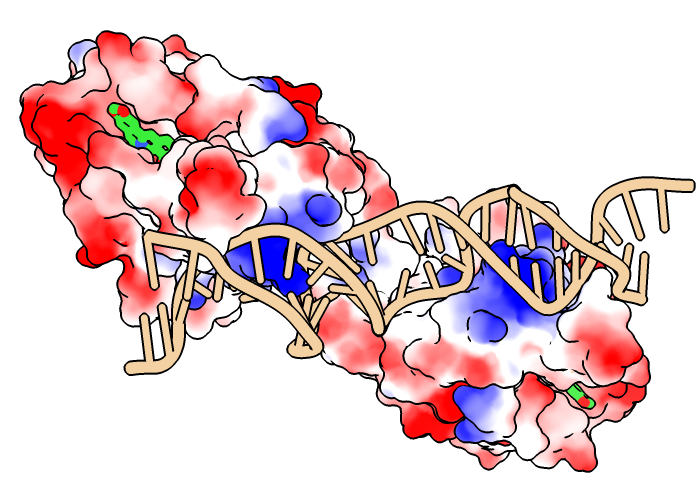
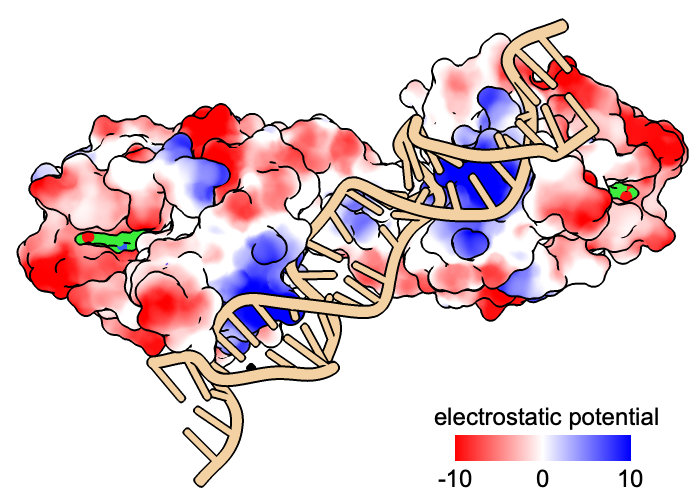
additional improvements/corrections to key and its documentation, updated example and figure in binding-sites tutorial; ~2dlabels alias for 2dlabels delete

diff --git a/docs/user/commands/key.html b/docs/user/commands/key.html
@@ -25,7 +25,7 @@ class="clRight" title="User Guide Index"/></a>
 
 <h3><a href="../index.html#commands">Command</a>: key</h3>
 <h3 class="usage"><a href="usageconventions.html">Usage</a>:
-<br><b>key</b> &nbsp;<i>colors-and-labels</i>
+<br><b>key</b> [&nbsp;<i>colors-and-labels</i>&nbsp;]
 [&nbsp;<b>pos</b>&nbsp;&nbsp;<i>xpos,ypos</i>&nbsp;]
 [&nbsp;<b>size</b>&nbsp;&nbsp;<i>width,height</i>&nbsp;]
 [&nbsp;<b>colorTreatment</b>&nbsp;&nbsp;<b>blended</b>&nbsp;|&nbsp;distinct&nbsp;]
@@ -39,6 +39,17 @@ class="clRight" title="User Guide Index"/></a>
 [&nbsp;<b>bold</b>&nbsp;&nbsp;true&nbsp;|&nbsp;<b>false</b>&nbsp;]
 [&nbsp;<b>italic</b>&nbsp;&nbsp;true&nbsp;|&nbsp;<b>false</b>&nbsp;]
 </h3>
+<table class="clRight">
+<tr><td>
+<img class="outline" src="../tutorials/bind6.png" 
+alt="Coulombic ESP flat lighting" width="280px">
+</td></tr>
+<tr><td align="center">
+<font size="-1">
+see <a href="../tutorials/binding-sites.html#esp">image how-to</a>
+</font>
+</td></tr>
+</table>
 <a name="listfonts"></a>
 <h3 class="usage"><a href="usageconventions.html">Usage</a>:
 <br><b>key listfonts</b>
@@ -65,26 +76,42 @@ See also:
 <a href="../tools/moldisplay.html" title="Molecule Display Toolbar...">
 <img class="icon" border=1 src="../tools/shortcut-icons/esp.png"></a>,
 <a href="mlp.html"><b>mlp</b></a>
-<a href="../tools/moldisplay.html" title="Molecule Display Toolbar...">
-<img class="icon" border=1 src="../tools/shortcut-icons/hydrophobicity.png"></a>,
+<a href="../tools/moldisplay.html" title="Molecule Display Toolbar..."><img 
+class="icon" border=1 src="../tools/shortcut-icons/hydrophobicity.png"></a>,
 <a href="measure.html#convexity"><b>measure convexity</b></a>,
 <a href="2dlabels.html"><b>2dlabels</b></a>,
-<a href="../images.html">making images</a>,
-the <a href="../tutorials/binding-sites.html#esp">Protein-Ligand Binding Sites
-tutorial</a>
+<a href="../images.html">making images</a>
 </p><p>
-The required <i>colors-and-labels</i> specification 
-can be given in either of the two ways described below, or even
+The color key is added as a new model that can be acted on 
+by general commands such as <a href="close.html"><b>close</b></a> and
+<a href="show.html"><b>show/hide</b></a>.
+Initial defaults are described in this page,
+but if a color key is already present, the existing model is
+simply updated and any unspecified options are left unchanged.
+Only one color key can be present at a time.
+The <a href="#delete"><b>key delete</b></a> or 
+<a href="#delete"><b>~key</b></a> command removes an existing color-key model.
+</p><p>
+The <i>colors-and-labels</i> specification 
+can be given in either of the two ways described below, or even as
 a mixture of the two. Each label can be numeric, text, or blank.
+The initial default is 
+<table border cellpadding="4" cellspacing="0"
+style="display:inline-block; vertical-align:middle"><tr>
+<td bgcolor=blue width="10px" title="blue"></td>
+<td bgcolor=white width="10px" title="white"></td>
+<td bgcolor=red width="10px" title="red"></td>
+</tr></table>
+with labels <b>min</b>, blank, and <b>max</b>.
 </p>
 <ol>
 <li>Two or more space-separated pairs of the form:
 <blockquote>
 <a href="colornames.html"><i>color-spec</i></a>:<i>label</i>
 </blockquote>
-For example, where the middle label is blank:
+For example, to give the initial-default colors and labels mentioned above:
 <blockquote>
-<b>blue:min white: red:max</b>
+<b>key blue:min white: red:max</b>
 </blockquote>
 <li>An existing <a href="color.html#palette-options"><i>palette-name</i></a>
 followed by labels entered as:
@@ -95,39 +122,32 @@ followed by labels entered as:
 ...where the number of labels must equal the number of colors in the palette.
 The command <a href="palette.html#list"><b>palette list</b></a>
 lists the available palettes in the <a href="../tools/log.html"><b>Log</b></a>.
-Example:
+Examples:
 </p>
 <blockquote>
-<b>key lipophilicity :-20 :0 :10 size .05,.25 pos .85,.05</b>
+<b>key ^piyg-5 :-2 :-1 :0 :1 :2</b>
+<br>
+<b>key lipophilicity :-20 :0 :20 size .05,.25 pos .85,.05</b>
 </blockquote>
 <p>
 Example of a mixture of the two types of specification:
 </p>
 <blockquote>
-<b>blue:0 cyanmaroon :0.1 :0.5 :1.0 pos .2,.05 size .5,.05</b>
+<b>key blue:0.0 cyanmaroon :0.2 :0.5 :1.0 pos .2,.08 size .6,.05</b>
 </blockquote>
 </ol>
 <p>
-Any label text that includes a space must be enclosed in quotation marks.
-The colors must be given in left-right order for a horizontal key
-or top-to-bottom order for a vertical key, and if the labels are numeric,
+The colors must be given in left&rarr;right order for a horizontal key
+or bottom&rarr;top for a vertical key, and if the labels are numeric,
 the values should be in monotonically increasing or decreasing order.
-</p><p>
-The color key is added as a new model that can be acted on 
-by general commands such as <a href="close.html"><b>close</b></a> and
-<a href="show.html"><b>show/hide</b></a>.
-Initial defaults are shown above with <b>bold</b>, 
-but if a color key is already present, the existing model is
-simply updated and any unspecified options are left unchanged.
-The <a href="#delete"><b>key delete</b></a> or 
-<a href="#delete"><b>~key</b></a> command removes an existing color-key model.
+Any label text that includes a space must be enclosed in quotation marks.
 </p><p>
 The <b>size</b> and <b>pos</b> options, respectively,
 set the dimensions and lower-left-corner position of the rectangular 
 color-key bar. The values are expressed in fractional coordinates 
 0.0-1.0 where 1.0 represents the full width or height of the 
 <a href="../window.html">graphics window</a> and 1.0,1.0 its top right corner.
-The initial default position is <b>0.7,0.05</b>,
+The initial default position is <b>0.7,0.08</b>,
 and the initial default size is <b>0.25,0.05</b>.
 </p><p>
 The <b>colorTreatment</b> indicates whether the colors should be

diff --git a/docs/user/tutorials/binding-sites.html b/docs/user/tutorials/binding-sites.html
@@ -865,15 +865,15 @@ or shadows
 You can also try adding a color key and associated label, for example:
 </p>
 <blockquote>
-<i>Command</i>:&nbsp;<b><a href="cxcmd:key red:-10 white:0 blue:10 pos .6,.05">key red:-10 white:0 blue:10 pos .6,.05</a></b>
+<i>Command</i>:&nbsp;<b><a href="cxcmd:key red:-10 white:0 blue:10 pos .65,.08">key red:-10 white:0 blue:10 pos .65,.08</a></b>
 <br>
-<i>Command</i>:&nbsp;<b><a href="cxcmd:2dlab text 'electrostatic potential' xpos .6 ypos .18">2dlab text 'electrostatic potential' xpos .6 ypos .18</a></b>
+<i>Command</i>:&nbsp;<b><a href="cxcmd:2dlab text 'electrostatic potential' xpos .62 ypos .14">2dlab text 'electrostatic potential' xpos .62 ypos .14</a></b>
 </blockquote>
 <p>
-Which values are best to use for the 
-<a href="/chimerax/docs/user/commands/key.html">color key</a> and
-<a href="/chimerax/docs/user/commands/2dlabels.html">2D label</a> positions
-and sizes in an image will depend on the current size and aspect ratio of the 
+What positions and sizes of the
+<a href="../commands/key.html">color key</a> and
+<a href="../commands/2dlabels.html">2D label</a>
+will look good in an image depend on the current size and aspect ratio of the 
 graphics window and on how the image is laid out.
 </p><p>
 To quit from ChimeraX, just close its main window or use a command:

diff --git a/docs/user/commands/2dlabels.html b/docs/user/commands/2dlabels.html
@@ -300,11 +300,12 @@ over <i>N</i> frames, such as fading in or out
 <h3>Deletion</h3>
 <blockquote>
 <a href="usageconventions.html"><b>Usage</b></a>:
-<b>2dlabels delete</b>
+(&nbsp;<b>2dlabels delete</b>&nbsp;|&nbsp;<b>~2dlabels</b>)
 [&nbsp;<a href="atomspec.html#othermodels"><i>2dlabel-spec</i></a>&nbsp;|&nbsp;<b>all</b>&nbsp;]
 </blockquote>
 <p>
-The 2D label(s) and arrows to delete can be specified by
+The <b>2dlabels delete</b> or <b>~2dlabels</b> command removes 2D labels
+and arrows. Which 2D label(s) and arrows to delete can be specified by
 <a href="atomspec.html#othermodels">model number</a>,
 or a blank specification or the word <b>all</b>
 to indicate all 2D labels and arrows collectively.
